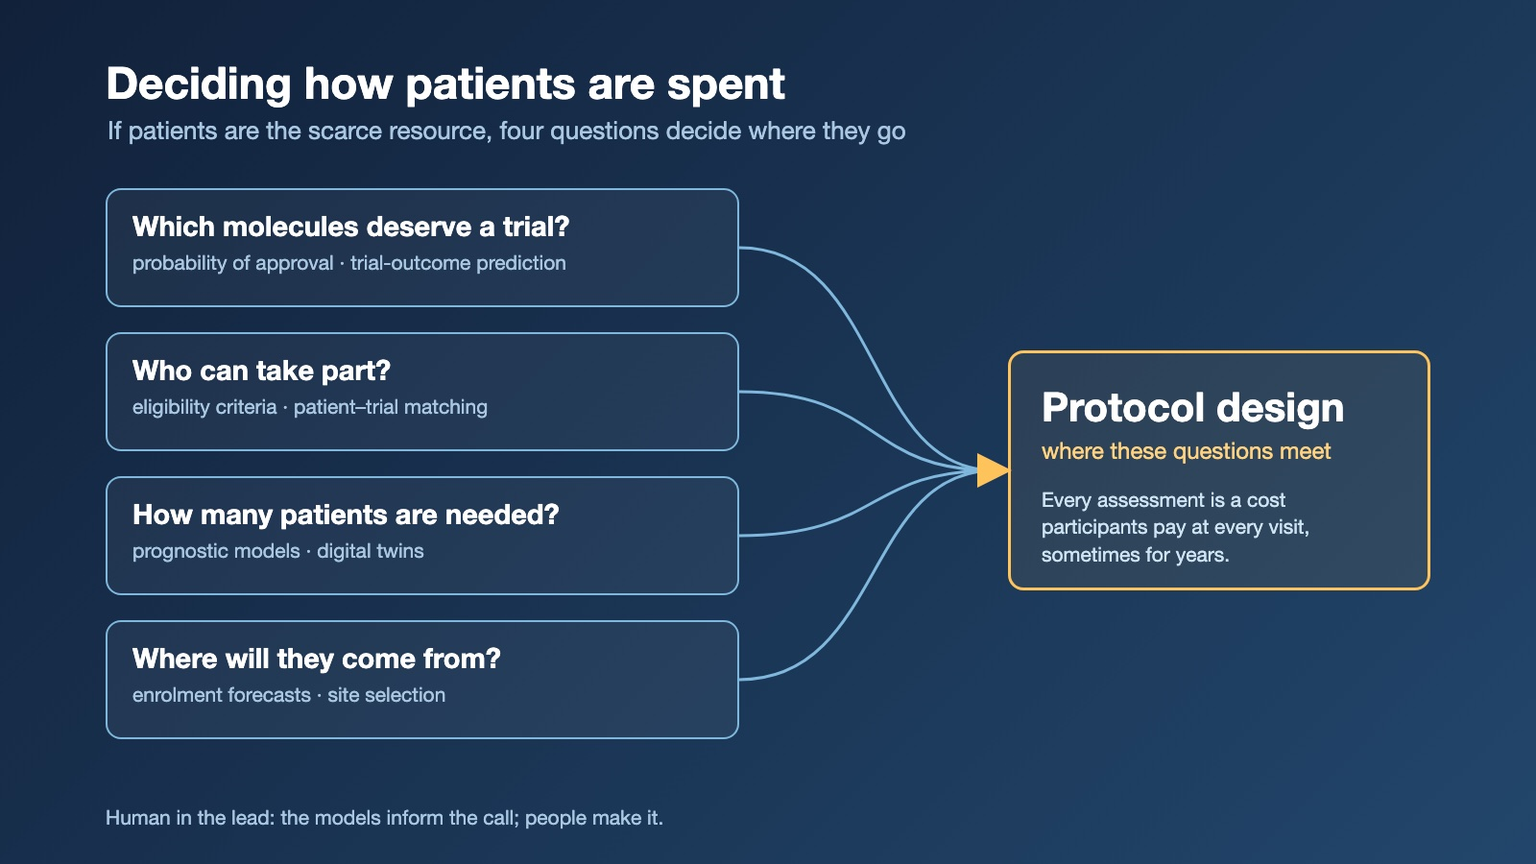
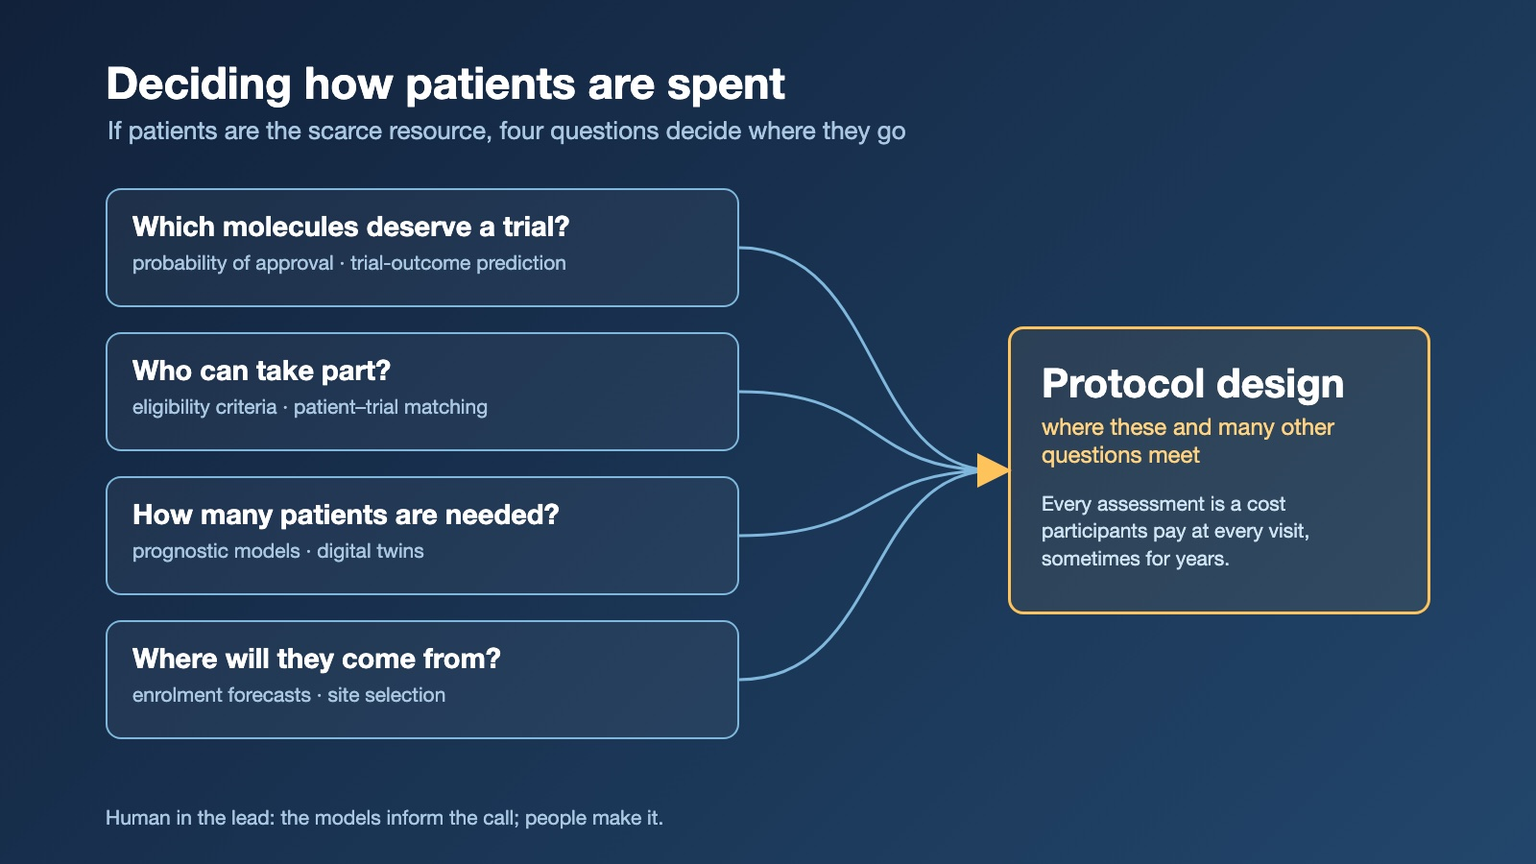
Tighten AG018 text, new cover and updated diagram
Shorten several paragraphs, note that protocol design answers many
other questions too, replace the cover with the author's new image,
and update the protocol-design diagram to match.

Changed region(s): [[0.6562, 0.3733, 0.9375, 0.7156]]

diff --git a/docs/AG018_bottleneck_clinic.html b/docs/AG018_bottleneck_clinic.html
@@ -49,9 +49,9 @@
 <hr>
 <p>At the <a href="https://www.terrapinn.com/conference/festival-of-biologics/index.stm" target="_blank" rel="noopener noreferrer">Festival of Biologics</a> in Basel this October, a speaker from Massachusetts General Hospital showed a slide with three columns. The first was AI supply: models that can evaluate around a billion molecules and put forward thousands of candidates. The second was clinical capacity: the patients, sites and investigators needed to test them. The third was regulatory load: the evidence every one of those candidates will eventually need. The slide&#39;s summary fitted on a single line: candidates scale, capacity remains constrained.</p>
 <p>It is the slide I have thought about most since. If AI keeps filling the top of the pipeline faster than trials can test what it finds, the bottleneck moves to the clinic. And then the most valuable AI in pharma over the next few years may not be the AI that finds molecules. It may be the AI that helps the clinic absorb them, and helps decide which of them deserve its patients.</p>
-<p>It is worth being precise about what AI has and has not yet proven. As far as I can find, no drug whose target and molecule were both discovered with AI had been approved by late 2026. The most advanced, a generative-AI-designed molecule for idiopathic pulmonary fibrosis, reported Phase 2a results in 2025 (<a href="https://doi.org/10.1038/s41591-025-03743-2" target="_blank" rel="noopener noreferrer">Xu et al., 2025</a>) and only entered Phase 3 this year (<a href="https://clinicaltrials.gov/study/NCT07687459" target="_blank" rel="noopener noreferrer">NCT07687459</a>). An early analysis found that AI-discovered molecules succeed more often than historical averages in Phase 1, but not in Phase 2 (<a href="https://doi.org/10.1016/j.drudis.2024.104009" target="_blank" rel="noopener noreferrer">Jayatunga et al., 2024</a>). So far, AI seems to help most with molecules that behave well in the body; whether they work is a question only trials can answer. That is one more reason the clinic is where the bottleneck sits.</p>
-<p>The capacity problem is not new. Depending on the field and how failure is defined, published analyses find that somewhere between a fifth and a half of trials fall short of their recruitment targets: 22% of adjuvant Phase III oncology trials over the last decade, for example (<a href="https://doi.org/10.1016/j.esmoop.2024.103603" target="_blank" rel="noopener noreferrer">ESMO Open, 2024</a>), and around half of haematological malignancy trials registered on ClinicalTrials.gov (<a href="https://ash.confex.com/ash/2024/webprogram/Paper207446.html" target="_blank" rel="noopener noreferrer">ASH, 2024</a>). What is new is that the pressure on that capacity is about to rise.</p>
-<p>So the question I want to ask is a product question, not a technology question. If clinical capacity is the constraint, what should we build first?</p>
+<p>It is worth being precise about what AI has proven. As far as I can find, no drug whose target and molecule were both discovered with AI had been approved by late 2026; the most advanced, a generative-AI-designed molecule for idiopathic pulmonary fibrosis (<a href="https://doi.org/10.1038/s41591-025-03743-2" target="_blank" rel="noopener noreferrer">Xu et al., 2025</a>), only entered Phase 3 this year (<a href="https://clinicaltrials.gov/study/NCT07687459" target="_blank" rel="noopener noreferrer">NCT07687459</a>). AI-discovered molecules have so far done better than average in Phase 1, but not in Phase 2 (<a href="https://doi.org/10.1016/j.drudis.2024.104009" target="_blank" rel="noopener noreferrer">Jayatunga et al., 2024</a>). AI seems to help most with molecules that behave well in the body; whether they work, only trials can tell. That is one more reason the bottleneck sits in the clinic.</p>
+<p>The capacity problem is not new: depending on the field and the definition, between a fifth and a half of trials fall short of their recruitment targets (<a href="https://doi.org/10.1016/j.esmoop.2024.103603" target="_blank" rel="noopener noreferrer">ESMO Open, 2024</a>; <a href="https://ash.confex.com/ash/2024/webprogram/Paper207446.html" target="_blank" rel="noopener noreferrer">ASH, 2024</a>). What is new is that the pressure on that capacity is about to rise.</p>
+<p>So the question is a product question, not a technology question: if clinical capacity is the constraint, what should we build first?</p>
 <h2>What is being built</h2>
 <p>At <a href="https://www.terrapinn.com/conference/biotechx/index.stm" target="_blank" rel="noopener noreferrer">BioTechX</a> this autumn, pharma companies, technology providers and academic groups showed tools aimed at exactly this problem. Three examples stayed with me.</p>
 <ul>
@@ -62,11 +62,11 @@
 <p>Regulators point the same way: judge an AI model&#39;s credibility for a specific context of use (<a href="https://www.fda.gov/regulatory-information/search-fda-guidance-documents/considerations-use-artificial-intelligence-support-regulatory-decision-making-drug-and-biological" target="_blank" rel="noopener noreferrer">FDA draft guidance, 2025</a>), keep the approach human-centric and talk to regulators early wherever AI could affect benefit–risk (<a href="https://www.ema.europa.eu/en/documents/scientific-guideline/reflection-paper-use-artificial-intelligence-ai-medicinal-product-lifecycle_en.pdf" target="_blank" rel="noopener noreferrer">EMA, 2024</a>), and keep oversight proportionate to risk (<a href="https://database.ich.org/sites/default/files/ICH_E6%28R3%29_Step4_FinalGuideline_2025_0106.pdf" target="_blank" rel="noopener noreferrer">ICH E6(R3), 2025</a>).</p>
 <p>Each of these solves a real problem. But a portfolio is not a list of good ideas: the capacity to build, validate and support AI tools is limited too. It is the same constraint, one level up.</p>
 <h2>Five questions before building</h2>
-<p>When I think about what belongs on a roadmap, these are the questions I keep coming back to.</p>
+<p>When I think about what belongs on a roadmap, these are the questions I come back to.</p>
 <p><strong>1. Does it change a decision, or only speed up a task?</strong> In my own talk at the same festival, on running a large cardiovascular outcomes trial, I used an illustrative example. &quot;98% of visits on time&quot; across a whole trial looks reassuring, and it tells you nothing about where to act. A site where 3 of 10 participants are more than a month overdue has the worse rate. A site where 20 of 100 are overdue has the greater burden. A tool that reports rates faster saves time. A tool that shows where the burden is changes where a monitor goes next week. The second is worth more.</p>
 <p><strong>2. Can it be validated for the way it will be used?</strong> A demo answers &quot;can it work?&quot;. A GxP system has to answer &quot;can we show it works, for this purpose, every time?&quot;. The distance between the two is where most pilots stall, and it is why the context-of-use framing in the FDA draft is useful: it forces you to define the job before you judge the tool.</p>
 <p><strong>3. Does it remove a step, or add one?</strong> As I argued in <a href="AG017_human_in_the_loop.html">Who Is the Human in the Loop?</a>, an AI output followed by a person pressing <em>Approve</em> is often one more layer, not one less. The tools worth scaling replace part of a manual process and leave the expert owning the flow.</p>
-<p><strong>4. Is the data ready, and do we know where it goes?</strong> At BioTechX, the conversation had moved on from last year&#39;s focus on FAIR data to governance and AI-ready systems. At one roundtable, people from several industries described widespread use of AI and real uncertainty about how to oversee it in practice. Whether a model runs inside your own environment or as a provider&#39;s service, data protection depends on the set-up and the contract. That is a product decision as much as a technical one.</p>
+<p><strong>4. Is the data ready, and do we know where it goes?</strong> At BioTechX, the conversation had moved on from last year&#39;s focus on FAIR data to governance and AI-ready systems. Whether a model runs inside your own environment or as a provider&#39;s service, data protection depends on the set-up and the contract. That is a product decision as much as a technical one.</p>
 <p><strong>5. Who acts on the output?</strong> AI narrows the field of attention; it does not deliver the intervention. In a global trial, the global team sets priorities, country teams support the sites, and site teams follow up with each participant. If a tool&#39;s output does not fit into that chain, it will be admired and then ignored.</p>
 <h2>Now, next, not yet</h2>
 <p><strong>Now: AI that focuses attention on data we already have.</strong> Data review, deviation patterns, safety triage, and answers to site questions that point to the exact passage in the current protocol, as I sketched in <a href="AG016_clinical_trial_future.html">Who Will Run the Clinical Trial of the Future?</a> I first described this kind of quality layer in <a href="AG014_clinical_development.html">Learning to Think Like a Clinical Development Professional</a>. The data exists, every output can be checked against its source, and the gain is capacity: expert time moves from searching to judging.</p>
@@ -78,12 +78,12 @@
 <li><em>Where will they come from?</em> Models trained on thousands of past trials predict enrolment rates (<a href="https://doi.org/10.1371/journal.pone.0263193" target="_blank" rel="noopener noreferrer">Bieganek et al., 2022</a>) and rank sites by expected recruitment (<a href="https://doi.org/10.1371/journal.pone.0300109" target="_blank" rel="noopener noreferrer">Hulstaert et al., 2024</a>).</li>
 </ul>
 <p><img src="./img/ag018_img001.jpg" alt="Diagram: four questions (which molecules deserve a trial, who can take part, how many patients are needed, where they will come from) all feed into protocol design."></p>
-<p>Protocol design is where these questions meet. Every assessment added to a protocol is a cost that participants pay at every visit, sometimes for years, and retention starts with study design (<a href="AG015_EUNL_meeting.html">The Room Where the Experiment Lives</a>). None of these models should make the call; each can make it better informed. This work is also harder than the &quot;now&quot; list: feedback loops are long, historical data carries historical biases, and the decisions it informs are among the most consequential in a programme. That is a reason to start carefully, not a reason to wait.</p>
+<p>Protocol design is where these questions meet, along with many others. Every assessment added to a protocol is a cost that participants pay at every visit, sometimes for years, and retention starts with study design (<a href="AG015_EUNL_meeting.html">The Room Where the Experiment Lives</a>). None of these models should make the call; each can make it better informed. This work is also harder than the &quot;now&quot; list: feedback loops are long, historical data carries historical biases, and the decisions it informs are among the most consequential in a programme. That is a reason to start carefully, not a reason to wait.</p>
 <p><strong>Not yet: AI that makes the decision.</strong> Ethics approvals, endpoint adjudication, eligibility calls. Not because AI could never help with them, but because accountability has to stay with a person who can explain the decision. The ethics-review example got the division right: AI prepares the package; people decide.</p>
 <p><img src="./img/ag018_img002.jpg" alt="Summary: five questions before building, and the verdict: now, AI that focuses attention on data we already have; next, AI that helps decide how patients are spent; not yet, AI that makes the decision."></p>
 <h2>Scale what works</h2>
 <p>At the same conference, a pharma venture investor described how the industry is now investing not only in medicines but in the AI tools that help develop them, following a simple sequence: identify needs, find partners, test solutions, scale what works.</p>
-<p>Who builds is part of that decision. In <em>AI for Good</em>, Josh Tyrangiel describes how Tomas Mihaljevic, the CEO of Cleveland Clinic, sees the two ways health-care organisations usually fail at digital transformation. In the first, keen internal staff are set loose building products of their own. &quot;We have not developed a single product that anyone has ever used,&quot; Mihaljevic says. In the second, executives meet their counterparts at Microsoft or Google, agree on areas to collaborate, and nothing happens: &quot;No one owns the initiative.&quot; What has worked instead is taking problems inside the clinic to AI partners with &quot;a relatively narrow field of focus&quot;, often smaller companies that need Cleveland Clinic more than it needs them, without ever becoming a passive customer. The clinic deploys AI around its critical processes rather than the other way round, and its clinicians work directly with the technical teams to design, test and implement. As Tyrangiel puts it: &quot;Nothing gets a green light without a lengthy pilot.&quot;</p>
+<p>Who builds is part of that decision. In <em>AI for Good</em>, Josh Tyrangiel describes how Tomas Mihaljevic, the CEO of Cleveland Clinic, sees a common way health-care organisations fail at digital transformation: keen internal staff are set loose building products of their own. &quot;We have not developed a single product that anyone has ever used,&quot; Mihaljevic says. What has worked instead is taking problems inside the clinic to AI partners with &quot;a relatively narrow field of focus&quot;, often smaller companies that need Cleveland Clinic more than it needs them, without ever becoming a passive customer. Clinicians work directly with the technical teams to design, test and implement, and, as Tyrangiel puts it, &quot;Nothing gets a green light without a lengthy pilot.&quot;</p>
 <p>Having built prototypes from inside a clinical team myself (<a href="AG012_DS_AI_Aut_clinical_trials.html">the first one started as a proof of concept in 2024</a>), I read the first failure mode as a warning rather than a verdict. A prototype built with its users is often the fastest way to understand a problem. But the prototype is not the product. Scaling needs an owner, the right partner for the job, and a path to validation, and every tool that scales takes support, training and the attention of the people who use it.</p>
 <p>If the bottleneck is moving to the clinic, the scarce resource is not ideas for AI. It is the judgement to choose the few that deserve to scale, and the discipline to stop the rest. In <a href="AG016_clinical_trial_future.html">Who Will Run the Clinical Trial of the Future?</a>, I described AI as an attention-allocation technology for clinical experts. The same holds one level up: a portfolio of AI tools is an attention problem too.</p>
 <p>If you could scale only two AI tools in clinical development next year, which would you choose, and which would you stop?</p>

diff --git a/docs/AG018_bottleneck_clinic.md b/docs/AG018_bottleneck_clinic.md
@@ -10,11 +10,11 @@ At the [Festival of Biologics](https://www.terrapinn.com/conference/festival-of-
 
 It is the slide I have thought about most since. If AI keeps filling the top of the pipeline faster than trials can test what it finds, the bottleneck moves to the clinic. And then the most valuable AI in pharma over the next few years may not be the AI that finds molecules. It may be the AI that helps the clinic absorb them, and helps decide which of them deserve its patients.
 
-It is worth being precise about what AI has and has not yet proven. As far as I can find, no drug whose target and molecule were both discovered with AI had been approved by late 2026. The most advanced, a generative-AI-designed molecule for idiopathic pulmonary fibrosis, reported Phase 2a results in 2025 ([Xu et al., 2025](https://doi.org/10.1038/s41591-025-03743-2)) and only entered Phase 3 this year ([NCT07687459](https://clinicaltrials.gov/study/NCT07687459)). An early analysis found that AI-discovered molecules succeed more often than historical averages in Phase 1, but not in Phase 2 ([Jayatunga et al., 2024](https://doi.org/10.1016/j.drudis.2024.104009)). So far, AI seems to help most with molecules that behave well in the body; whether they work is a question only trials can answer. That is one more reason the clinic is where the bottleneck sits.
+It is worth being precise about what AI has proven. As far as I can find, no drug whose target and molecule were both discovered with AI had been approved by late 2026; the most advanced, a generative-AI-designed molecule for idiopathic pulmonary fibrosis ([Xu et al., 2025](https://doi.org/10.1038/s41591-025-03743-2)), only entered Phase 3 this year ([NCT07687459](https://clinicaltrials.gov/study/NCT07687459)). AI-discovered molecules have so far done better than average in Phase 1, but not in Phase 2 ([Jayatunga et al., 2024](https://doi.org/10.1016/j.drudis.2024.104009)). AI seems to help most with molecules that behave well in the body; whether they work, only trials can tell. That is one more reason the bottleneck sits in the clinic.
 
-The capacity problem is not new. Depending on the field and how failure is defined, published analyses find that somewhere between a fifth and a half of trials fall short of their recruitment targets: 22% of adjuvant Phase III oncology trials over the last decade, for example ([ESMO Open, 2024](https://doi.org/10.1016/j.esmoop.2024.103603)), and around half of haematological malignancy trials registered on ClinicalTrials.gov ([ASH, 2024](https://ash.confex.com/ash/2024/webprogram/Paper207446.html)). What is new is that the pressure on that capacity is about to rise.
+The capacity problem is not new: depending on the field and the definition, between a fifth and a half of trials fall short of their recruitment targets ([ESMO Open, 2024](https://doi.org/10.1016/j.esmoop.2024.103603); [ASH, 2024](https://ash.confex.com/ash/2024/webprogram/Paper207446.html)). What is new is that the pressure on that capacity is about to rise.
 
-So the question I want to ask is a product question, not a technology question. If clinical capacity is the constraint, what should we build first?
+So the question is a product question, not a technology question: if clinical capacity is the constraint, what should we build first?
 
 ## What is being built
 
@@ -30,7 +30,7 @@ Each of these solves a real problem. But a portfolio is not a list of good ideas
 
 ## Five questions before building
 
-When I think about what belongs on a roadmap, these are the questions I keep coming back to.
+When I think about what belongs on a roadmap, these are the questions I come back to.
 
 **1. Does it change a decision, or only speed up a task?** In my own talk at the same festival, on running a large cardiovascular outcomes trial, I used an illustrative example. "98% of visits on time" across a whole trial looks reassuring, and it tells you nothing about where to act. A site where 3 of 10 participants are more than a month overdue has the worse rate. A site where 20 of 100 are overdue has the greater burden. A tool that reports rates faster saves time. A tool that shows where the burden is changes where a monitor goes next week. The second is worth more.
 
@@ -38,7 +38,7 @@ When I think about what belongs on a roadmap, these are the questions I keep com
 
 **3. Does it remove a step, or add one?** As I argued in [Who Is the Human in the Loop?](story.html?file=docs/AG017_human_in_the_loop.md), an AI output followed by a person pressing *Approve* is often one more layer, not one less. The tools worth scaling replace part of a manual process and leave the expert owning the flow.
 
-**4. Is the data ready, and do we know where it goes?** At BioTechX, the conversation had moved on from last year's focus on FAIR data to governance and AI-ready systems. At one roundtable, people from several industries described widespread use of AI and real uncertainty about how to oversee it in practice. Whether a model runs inside your own environment or as a provider's service, data protection depends on the set-up and the contract. That is a product decision as much as a technical one.
+**4. Is the data ready, and do we know where it goes?** At BioTechX, the conversation had moved on from last year's focus on FAIR data to governance and AI-ready systems. Whether a model runs inside your own environment or as a provider's service, data protection depends on the set-up and the contract. That is a product decision as much as a technical one.
 
 **5. Who acts on the output?** AI narrows the field of attention; it does not deliver the intervention. In a global trial, the global team sets priorities, country teams support the sites, and site teams follow up with each participant. If a tool's output does not fit into that chain, it will be admired and then ignored.
 
@@ -55,7 +55,7 @@ When I think about what belongs on a roadmap, these are the questions I keep com
 
 ![Diagram: four questions (which molecules deserve a trial, who can take part, how many patients are needed, where they will come from) all feed into protocol design.](./img/ag018_img001.jpg)
 
-Protocol design is where these questions meet. Every assessment added to a protocol is a cost that participants pay at every visit, sometimes for years, and retention starts with study design ([The Room Where the Experiment Lives](story.html?file=docs/AG015_EUNL_meeting.md)). None of these models should make the call; each can make it better informed. This work is also harder than the "now" list: feedback loops are long, historical data carries historical biases, and the decisions it informs are among the most consequential in a programme. That is a reason to start carefully, not a reason to wait.
+Protocol design is where these questions meet, along with many others. Every assessment added to a protocol is a cost that participants pay at every visit, sometimes for years, and retention starts with study design ([The Room Where the Experiment Lives](story.html?file=docs/AG015_EUNL_meeting.md)). None of these models should make the call; each can make it better informed. This work is also harder than the "now" list: feedback loops are long, historical data carries historical biases, and the decisions it informs are among the most consequential in a programme. That is a reason to start carefully, not a reason to wait.
 
 **Not yet: AI that makes the decision.** Ethics approvals, endpoint adjudication, eligibility calls. Not because AI could never help with them, but because accountability has to stay with a person who can explain the decision. The ethics-review example got the division right: AI prepares the package; people decide.
 
@@ -65,7 +65,7 @@ Protocol design is where these questions meet. Every assessment added to a proto
 
 At the same conference, a pharma venture investor described how the industry is now investing not only in medicines but in the AI tools that help develop them, following a simple sequence: identify needs, find partners, test solutions, scale what works.
 
-Who builds is part of that decision. In *AI for Good*, Josh Tyrangiel describes how Tomas Mihaljevic, the CEO of Cleveland Clinic, sees the two ways health-care organisations usually fail at digital transformation. In the first, keen internal staff are set loose building products of their own. "We have not developed a single product that anyone has ever used," Mihaljevic says. In the second, executives meet their counterparts at Microsoft or Google, agree on areas to collaborate, and nothing happens: "No one owns the initiative." What has worked instead is taking problems inside the clinic to AI partners with "a relatively narrow field of focus", often smaller companies that need Cleveland Clinic more than it needs them, without ever becoming a passive customer. The clinic deploys AI around its critical processes rather than the other way round, and its clinicians work directly with the technical teams to design, test and implement. As Tyrangiel puts it: "Nothing gets a green light without a lengthy pilot."
+Who builds is part of that decision. In *AI for Good*, Josh Tyrangiel describes how Tomas Mihaljevic, the CEO of Cleveland Clinic, sees a common way health-care organisations fail at digital transformation: keen internal staff are set loose building products of their own. "We have not developed a single product that anyone has ever used," Mihaljevic says. What has worked instead is taking problems inside the clinic to AI partners with "a relatively narrow field of focus", often smaller companies that need Cleveland Clinic more than it needs them, without ever becoming a passive customer. Clinicians work directly with the technical teams to design, test and implement, and, as Tyrangiel puts it, "Nothing gets a green light without a lengthy pilot."
 
 Having built prototypes from inside a clinical team myself ([the first one started as a proof of concept in 2024](story.html?file=docs/AG012_DS_AI_Aut_clinical_trials.md)), I read the first failure mode as a warning rather than a verdict. A prototype built with its users is often the fastest way to understand a problem. But the prototype is not the product. Scaling needs an owner, the right partner for the job, and a path to validation, and every tool that scales takes support, training and the attention of the people who use it.
 
